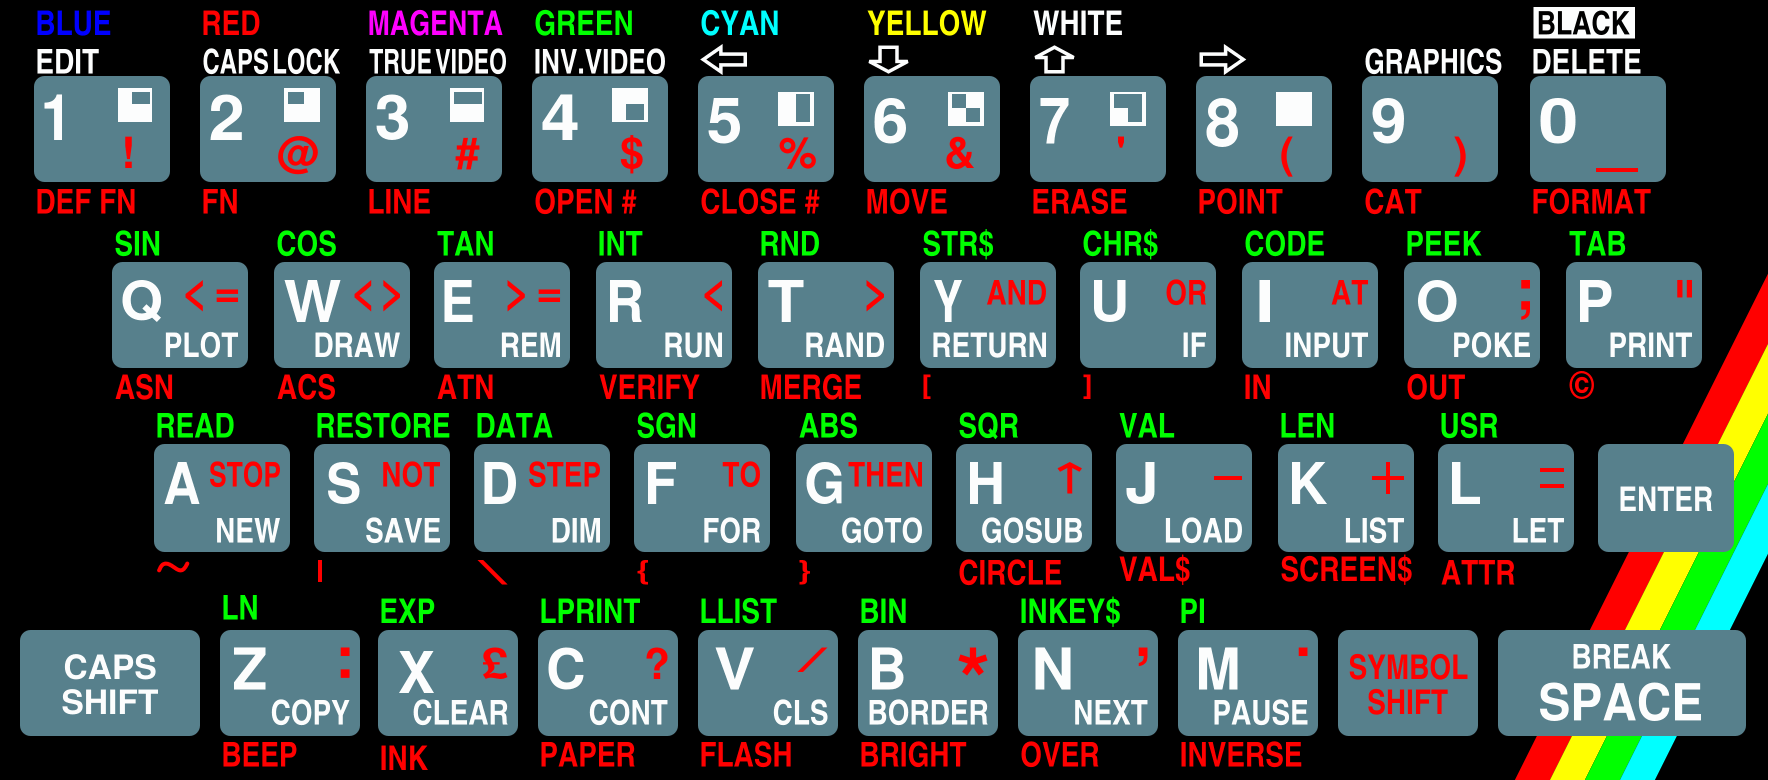
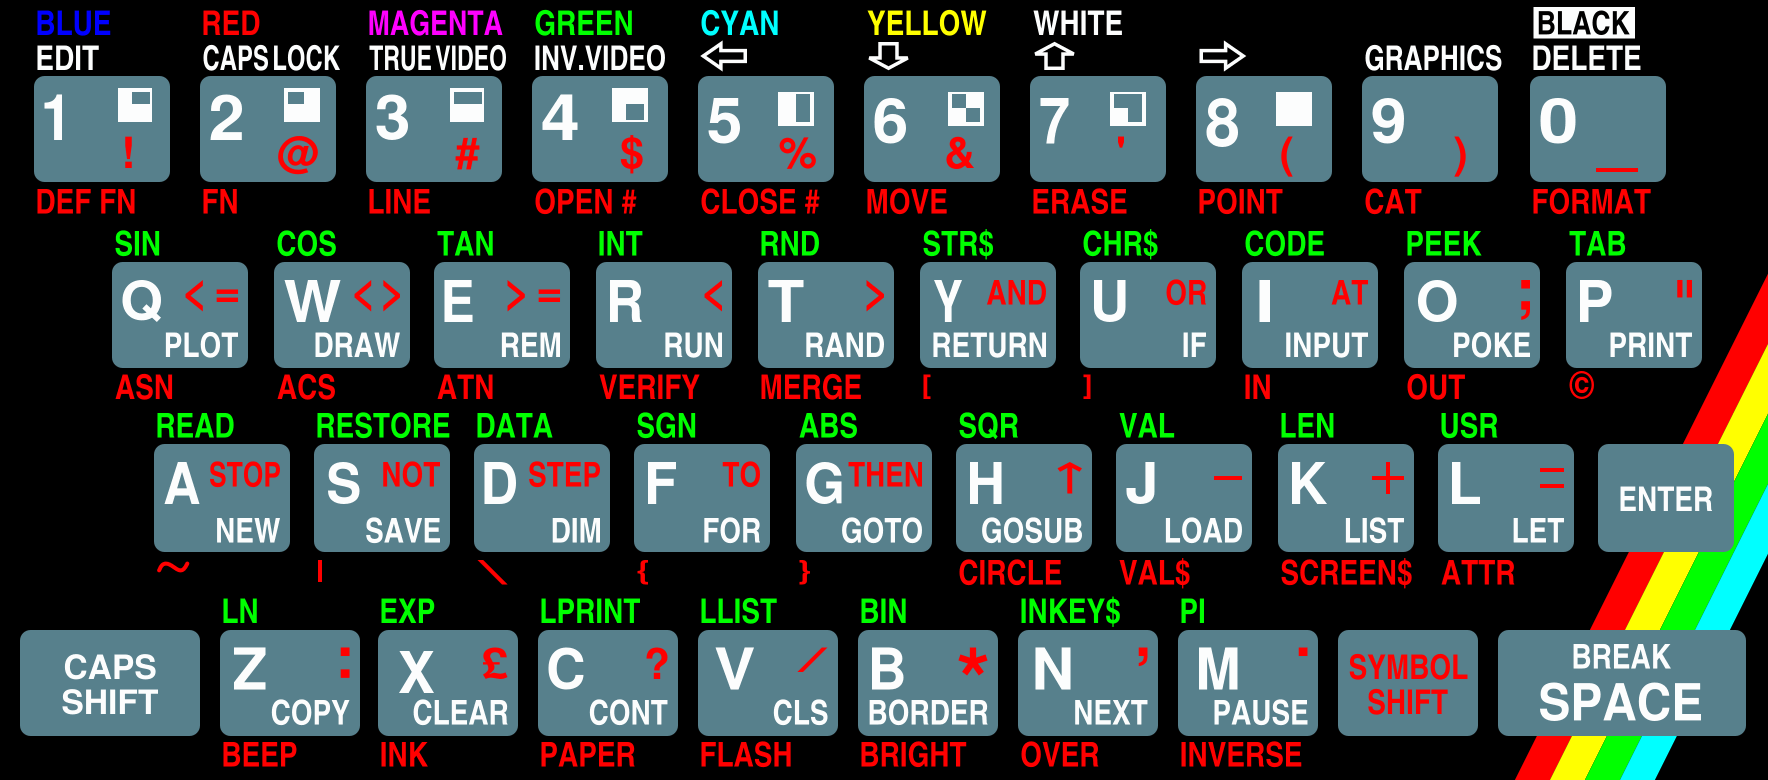
Keyboard pictures: the 48K's words 2 pixels from their keys
The words above the keys (EDIT ... DELETE, the green ones) end, and the
red ones under them begin, 2 pixels from the key (they were 1 to 3
pixels away); the arrows above 5 - 8 are on the line of EDIT. The
colours and BLACK stay where they were.

Claude-Session: https://claude.ai/code/session_01NM19GvsbPzKCYdva7s3UiR

diff --git a/Source/KBPics/svg/spectrum48.py b/Source/KBPics/svg/spectrum48.py
@@ -97,6 +97,12 @@ def draw(picture='spectrum48', key=(87, 128, 140)):
     # edge); the words and signs above and under the keys LEFT pixels from
     # the left edge of their keys
     MARGIN, TOP, LEFT = 3, 5, 1
+    # the words above and under the keys (not the colours and BLACK): GAP
+    # pixels from them (Viktor's choice), above to the base line, under from
+    # the tops of the letters (the tail of $ not counted); the arrows above 5
+    # - 8 on the line of the words there
+    GAP = 2
+    COLOURS = (0, 1, 2, 3, 4, 5, 6)
     # the dots of the punctuation, the star on B and " on P (Viktor's
     # choice: not larger than the other signs), in pixels: the width of the
     # dots, the heights of the star and of "
@@ -182,6 +188,12 @@ def draw(picture='spectrum48', key=(87, 128, 140)):
         inside = kx <= b['x'] and b['x2'] <= kx + kw and ky <= b['y'] and b['y2'] <= ky + kh
         if not inside:
             X = left_of(b, X)
+            if ids not in COLOURS:
+                nk = p.newkeys[k]
+                if b['y'] + b['y2'] < 2 * ky + kh:
+                    base = (nk[1] - GAP) * S
+                else:
+                    base = (nk[1] + nk[3] + GAP + 7) * S
         if ids in (169, 187):
             # CAPS SHIFT: wider letters, as on the Spectrum (Viktor's
             # choice): of Heros Bold, as high as the others
@@ -239,11 +251,6 @@ def draw(picture='spectrum48', key=(87, 128, 140)):
         if sx < 1:
             print('narrower: %s %.2f' % (t, sx), file=sys.stderr)
         drawn.append((ids, t, left, base - 7 * S, left + w, base, inside, k))
-
-    # GRAPHICS and DELETE on the line of EDIT (they were 1 pixel higher)
-    for i in (16, 17):
-        p.words[i]['y'] += 1
-        p.words[i]['y2'] += 1
 
     # The two lines above the number keys were drawn on common lines, not with
     # their keys (which are 1 pixel off): only sideways with the keys
@@ -419,6 +426,7 @@ def draw(picture='spectrum48', key=(87, 128, 140)):
         b = p.box(i)
         X, Y, Wd, H = p.moved(b, 'x')
         X = left_of(b, X)
+        Y = (p.newkeys[p.key_of(b)][1] - GAP) * S - H
         sw = S
         # the arrow pointing left in a unit box, then turned
         pts = [(0, 0.5), (0.42, 0.0), (0.42, 0.28), (1, 0.28), (1, 0.72), (0.42, 0.72), (0.42, 1.0)]

diff --git a/CHANGELOG-fork.md b/CHANGELOG-fork.md
@@ -31,8 +31,9 @@ itself are in `Release Files/Release history.txt`.
   can; its words and signs are placed as on the keyboard of the Spectrum:
   the keywords at the bottom right of the keys and the red words and signs
   at their top right, all as far from the right edge, the words above and
-  under the keys from the left edge of their keys; its punctuation (; : ,
-  .) is of one size, and so are the signs of the number keys; the star on
+  under the keys from the left edge of their keys, 2 pixels from them (the
+  colours and BLACK stay where they were); its punctuation (; : , .) is of
+  one size, and so are the signs of the number keys; the star on
   B is of the font too, and no sign is larger than the others; ENTER is in
   the middle of its key, and CAPS SHIFT has wider letters, as on the
   Spectrum. On the ZX81 the keys are in even rows, and the grey block

diff --git a/CHANGELOG-fork.hu.md b/CHANGELOG-fork.hu.md
@@ -33,7 +33,8 @@ készült. Magának az EightyOne-nak a változásai a
   rajtuk; a szavak és jelek úgy állnak, mint a Spectrum billentyűzetén: a
   billentyűk jobb alsó szavai és jobb felső piros szavai és jelei egyforma
   távolságra a jobb széltől, a billentyűk feletti és alatti szavak a
-  billentyűjük bal szélétől; az írásjelei (; : , .) egy méretűek, ahogy a
+  billentyűjük bal szélétől, 2 képpontra a billentyűtől (a színek és a
+  BLACK a helyükön maradtak); az írásjelei (; : , .) egy méretűek, ahogy a
   számbillentyűk jelei is; a B csillaga is a betűtípusé, és egyik jel sem
   nagyobb a többinél; az ENTER a billentyű közepén áll, a CAPS SHIFT betűi
   szélesebbek, mint a Spectrumon. A ZX81 billentyűi egyenletes sorokban
